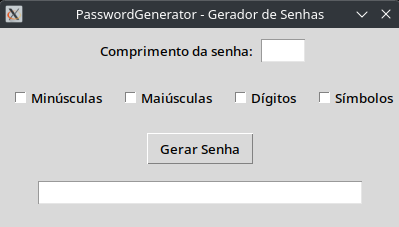
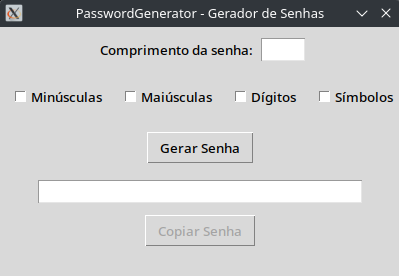
Adicionando botão de copiar senha gerada

diff --git a/main.py b/main.py
@@ -61,20 +61,30 @@ def on_click() -> None:
         if senha:
             entry_senha.delete(0, tk.END)
             entry_senha.insert(0, senha)
+            btn_copiar.config(state=tk.NORMAL)
     except ValueError:
         messagebox.showerror(
             "Erro", "Digite um número válido para o comprimento.")
+
+
+def copiar_senha() -> None:
+    """
+    Copia a senha gerada para a área de transferência.
+    """
+    senha = entry_senha.get()
+    gui.clipboard_clear()
+    gui.clipboard_append(senha)
 
 
 def main() -> None:
     """
     Configura e exibe a interface gráfica do gerador de senhas.
     """
-    global entry_comprimento, entry_senha, bool_minusculas, bool_maiusculas, bool_digitos, bool_simbolos
+    global entry_comprimento, entry_senha, bool_minusculas, bool_maiusculas, bool_digitos, bool_simbolos, gui, btn_copiar
 
     gui = tk.Tk()
     gui.title("PasswordGenerator - Gerador de Senhas")
-    gui.geometry("400x200")
+    gui.geometry("400x250")
     gui.resizable(False, False)
 
     top = tk.Frame(gui)
@@ -104,11 +114,15 @@ def main() -> None:
     tk.Checkbutton(
         opcoes, text="Símbolos", variable=bool_simbolos).grid(row=0, column=3, padx=5, pady=2)
 
-    btn = tk.Button(gui, text="Gerar Senha", command=on_click)
-    btn.pack(pady=10)
+    btn_gerar = tk.Button(gui, text="Gerar Senha", command=on_click)
+    btn_gerar.pack(pady=10)
 
     entry_senha = tk.Entry(gui, width=40, justify='center')
     entry_senha.pack(pady=5)
+
+    btn_copiar = tk.Button(
+        gui, text="Copiar Senha", command=copiar_senha, state=tk.DISABLED)
+    btn_copiar.pack(pady=5)
 
     gui.mainloop()
 

diff --git a/README.md b/README.md
@@ -11,9 +11,10 @@ Este é um gerador de senhas aleatórias desenvolvido em Python utilizando a bib
 
 ## Funcionalidades
 
-- **Comprimento**: Escolha do comprimento da senha.
+- **Comprimento**: Escolha do comprimento da senha
 - **Caracteres Alternativos**: Inclusão opcional de caracteres minúsculos, maiúsculos, dígitos e símbolos
-- **Senha gerada**: Exibição da senha gerada para cópia
+- **Senha Gerada**: Exibição da senha gerada para cópia
+- **Copiar Senha**: Botão para copiar a senha automaticamente
 
 ## Como Executar
 
@@ -43,6 +44,7 @@ A tela do gerador de senhas será aberta, e você poderá começar a usá-lo.
 2. Selecione os tipos de caracteres desejados.
 3. Clique no botão "Gerar Senha".
 4. A senha gerada será exibida no campo correspondente.
+5. Para copiar a senha pode clicar no botão "Copiar senha".
 
 ## Layout da Tela
 
